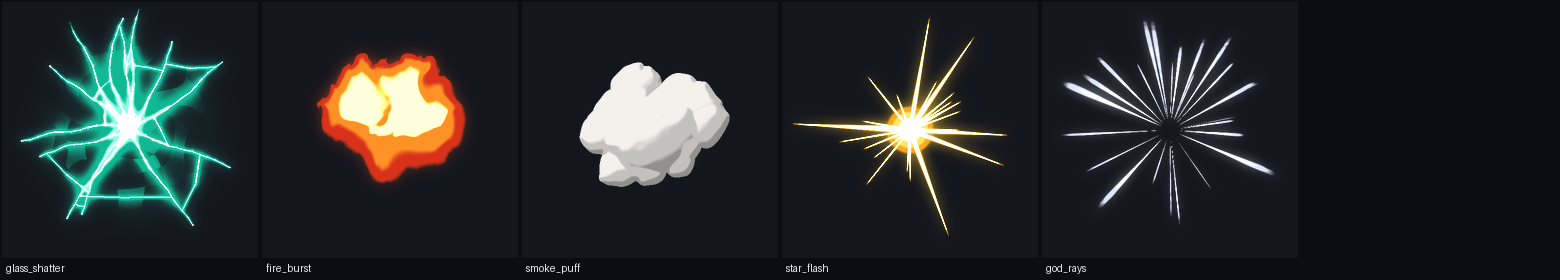
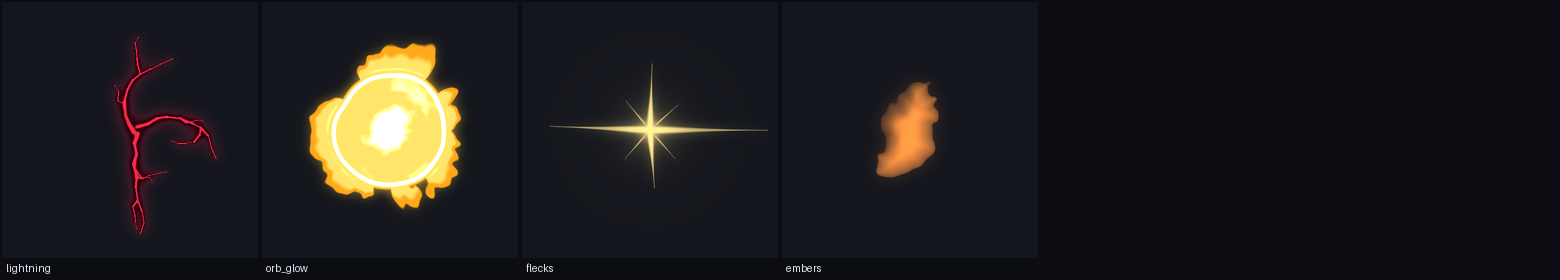
roblox-anime-vfx: repaint orb, flecks, embers; steady lightning strike; gallery generator
- lightning: bolts strike in, hold the same paths with flicker, then break up (was re-randomised every frame)
- orb_glow: churning layered energy ball with flame-like corona (loop)
- flecks: painted glint, smeared needle, glowing light chip, crystal shard
- embers: torn painted flakes with hot centres, charred edges, folds
- gallery.py builds the texture review page

Claude-Session: https://claude.ai/code/session_01AzdyD7KVspiBcyaRxVxQNw

diff --git a/.claude/skills/roblox-anime-vfx/scripts/vfx_textures.py b/.claude/skills/roblox-anime-vfx/scripts/vfx_textures.py
@@ -237,14 +237,34 @@ def god_rays(n=16, seed=61):
     return frames
 
 
-def orb_glow():
-    """Soft bloom orb: hot disc, wide falloff, four faint glints. Single white, alpha only."""
-    x, y = coords(S)
-    r, a = polar_of(x, y)
-    disc = 1 - ss(r, 0.12, 0.3)
-    halo = np.exp(-r * 4.2) * (1 - ss(r, 0.8, 1.0))
-    glint = np.exp(-np.abs(np.sin(2 * a)) * r * 30) * np.exp(-r * 3.5) * 0.35
-    return np.clip(disc + halo * 0.8 + glint, 0, 1)
+def orb_glow(n=16, seed=63):
+    """Churning anime energy ball (loop): white-hot core, swirling streaks inside the body, a bright
+    rim, and short flame-like tongues licking off the edge. Angle-periodic noise rolls one full period,
+    so FlipbookMode = Loop is seamless. Layered."""
+    H, W = 256, 1024
+    sw = tnoise(H, W, 40, 160, seed, 4)            # rows = radius (outer -> centre), cols = angle
+    tg = tnoise(H, W, 140, 70, seed + 1, 3)
+    wob = tnoise(1, W, 1, 180, seed + 2, 2)[0]
+    v = np.linspace(0, 1, H)[:, None]              # 0 = outer limit (r=0.98), 1 = centre
+    frames = []
+    for i in range(n):
+        o = int(W * i / n)
+        a = np.roll(sw, -o, axis=1)
+        b = np.roll(tg, o * 2 % W, axis=1)
+        w = np.roll(wob, -o)[None, :]
+        r = 0.98 * (1 - v)                          # actual radius of each row
+        edge = 0.46 + 0.035 * (w - 0.5) * 2         # wobbly silhouette
+        inside = ss(r, edge + 0.012, edge - 0.012)
+        body = inside * (0.5 + 0.32 * a + 0.25 * ss(r, edge * 0.55, 0.0))
+        rim = ss(np.abs(r - (edge - 0.03)), 0.035, 0.006) * 0.95
+        tl = 0.05 + 0.32 * levels(b, 0.35, 0.95)
+        out = np.clip((r - edge) / tl, 0, 1)
+        tongues = ss(r, edge - 0.02, edge + 0.01) * ss(out, 1.0, 0.75) * (1 - out) ** 0.8 * 0.8 * (tl > 0.07)
+        core = ss(r, 0.2, 0.04) * np.ones_like(a)
+        I = np.clip(np.maximum.reduce([body, rim, tongues, core]), 0, 1)
+        I = mblur(I, 2, axis=0)
+        frames.append(pc.polar_strip(I, S, 0.98, 0.0, 0.0, TAU))
+    return frames
 
 
 # ================================================================ FLECKS / EMBERS
@@ -254,47 +274,101 @@ def _poly_mask(pts, size):
     return np.asarray(big, np.float32) / 255
 
 
+def _painted(mask, soft=1.2):
+    return np.clip(blur(mask, soft), 0, 1)
+
+
 def flecks():
-    """2x2 sheet of small light flecks: rounded square, diamond, needle, angular chip. Each has a hot
-    core and a baked soft halo. Single white. FlipbookLayout Grid2x2 + FlipbookStartRandom to mix."""
+    """2x2 sheet of painted sparks, each with a hot centre and a soft painted halo: (1) uneven 4-point
+    glint, (2) needle spark with a smear trail, (3) faceted light chip (lit / shadow face, rim
+    highlight), (4) crystal shard with a tip glint. Shaded (grey value = painted tone).
+    FlipbookLayout Grid2x2 + FlipbookStartRandom to mix them in one emitter."""
+    rng = np.random.default_rng(73)
     x, y = coords(S)
-    r, _ = polar_of(x, y)
-    cells = []
-    sq = np.maximum(np.abs(x), np.abs(y))
-    rsq = np.hypot(np.clip(np.abs(x) - 0.2, 0, None), np.clip(np.abs(y) - 0.2, 0, None))
-    cells.append(1 - ss(rsq, 0.06, 0.1))
-    dia = np.abs(x) + np.abs(y)
-    cells.append(1 - ss(dia, 0.36, 0.42))
-    cells.append(1 - ss(np.abs(x) / 0.12 + (y / 0.85) ** 2, 0.85, 1.0))
-    cells.append(_poly_mask([(S * .32, S * .24), (S * .7, S * .3), (S * .76, S * .62), (S * .44, S * .78), (S * .26, S * .55)], S))
-    out = []
-    for c in cells:
-        halo = blur(c, S * 0.035) * 0.55
-        out.append(np.clip(np.maximum(c, halo), 0, 1))
-    return out
+    r, a = polar_of(x, y)
+    alphas, vals = [], []
+    # 1 glint: uneven arms, slightly off-axis, concave taper, small diagonal arms
+    F = np.zeros_like(x)
+    for k, L in enumerate([0.92, 0.52, 0.78, 0.46]):
+        ang = k * math.pi / 2 + rng.uniform(-0.08, 0.08)
+        da = np.abs(np.angle(np.exp(1j * (a - ang))))
+        wd = 0.07 * (1 - np.clip(r / L, 0, 1)) ** 2.2
+        F = np.maximum(F, ss(da * r, wd + 0.004, wd * 0.2) * (r < L))
+    for k in range(4):
+        ang = math.pi / 4 + k * math.pi / 2 + rng.uniform(-0.1, 0.1)
+        da = np.abs(np.angle(np.exp(1j * (a - ang))))
+        wd = 0.03 * (1 - np.clip(r / 0.3, 0, 1)) ** 2
+        F = np.maximum(F, 0.8 * ss(da * r, wd + 0.003, wd * 0.2) * (r < 0.3))
+    core = ss(r, 0.12, 0.02)
+    halo = blur(F, S * 0.02) * 0.6 + np.exp(-r * 7) * 0.5
+    alphas.append(np.clip(np.maximum.reduce([F, core, halo]), 0, 1))
+    vals.append(np.clip(0.62 + 0.38 * np.maximum(core, F * ss(r, 0.5, 0.0)), 0, 1))
+    # 2 needle spark: bright teardrop head at the top, smeared tail downward
+    head = ss(np.hypot(x / 0.11, (y - 0.4) / 0.24), 1.0, 0.6)
+    tail = ss(np.abs(x) / (0.09 * np.clip((y + 0.85) / 1.25, 0, 1) + 1e-3), 1.0, 0.35) * ss(y, -0.85, 0.3) * (y < 0.45)
+    tail = mblur(tail, S * 0.02, axis=0) * np.clip((y + 0.85) / 1.3, 0, 1)
+    F = np.maximum(head, tail * 0.85)
+    halo = blur(F, S * 0.03) * 0.55
+    alphas.append(np.clip(np.maximum(F, halo), 0, 1))
+    vals.append(np.clip(0.6 + 0.4 * np.maximum(head, tail * ss(y, -0.3, 0.4)), 0, 1))
+    # 3 light chip: soft-cornered, slightly irregular square, glowing hot from the centre out
+    nz = noise(S, S, 50, 50, 77, 3)
+    th = 0.3
+    xr, yr = x * math.cos(th) - y * math.sin(th), x * math.sin(th) + y * math.cos(th)
+    sq = np.maximum(np.abs(xr) * 1.05, np.abs(yr)) + (nz - 0.5) * 0.05
+    m = ss(sq, 0.34, 0.3)
+    inner = ss(sq, 0.3, 0.02)
+    lit = 0.12 * ss(xr - yr, -0.3, 0.3)                       # one side catches more light
+    halo = blur(m, S * 0.05) * 0.5
+    alphas.append(np.clip(np.maximum(m, halo), 0, 1))
+    vals.append(np.clip(np.where(m > 0.3, 0.6 + 0.3 * inner + lit + 0.15 * ss(sq, 0.12, 0.0), 0.62), 0, 1))
+    # 4 crystal shard: tapered sliver, bright at the tip fading down its length, soft painted edges, tip glint
+    th = 0.25
+    xr, yr = x * math.cos(th) - y * math.sin(th), x * math.sin(th) + y * math.cos(th)
+    w = 0.12 * np.clip((0.8 - yr) / 1.4, 0, 1) ** 0.6 * np.clip((yr + 0.8) / 0.25, 0, 1)
+    m = ss(np.abs(xr) - w, 0.012, -0.012) * (np.abs(yr) < 0.8)
+    m = blur(m, 1.6)
+    along = np.clip((yr + 0.8) / 1.6, 0, 1)
+    tx, ty = -math.sin(-th) * 0.62, math.cos(-th) * 0.62
+    rr, aa = polar_of(x - tx, y - ty)
+    gl = np.zeros_like(x)
+    for ang in (0, math.pi / 2):
+        da = np.abs(np.angle(np.exp(1j * (aa - ang))))
+        da = np.minimum(da, math.pi - da)
+        gl = np.maximum(gl, ss(da * rr, 0.025 * (1 - np.clip(rr / 0.26, 0, 1)) ** 2 + 0.003, 0.0) * (rr < 0.26))
+    gl = np.maximum(gl, ss(rr, 0.06, 0.0))
+    halo = blur(np.maximum(m, gl), S * 0.03) * 0.5
+    alphas.append(np.clip(np.maximum.reduce([m * (0.55 + 0.45 * along), gl, halo]), 0, 1))
+    vals.append(np.clip(0.6 + 0.4 * np.maximum(along ** 1.5 * (m > 0.3), gl), 0, 1))
+    return alphas, vals
 
 
 def embers(n=16, seed=71):
-    """16 angular ember / petal chips (Random start). Hot inner value, slightly darker edge. Shaded."""
+    """16 painted ember flakes (use FlipbookStartRandom): torn, irregular outlines from warped
+    ellipses with a pointed tail, a glowing hot centre, a charred darker edge on one side and, on some,
+    a fold line splitting two facets. Faint baked halo. Shaded."""
     rng = np.random.default_rng(seed)
-    alphas, vals = [], []
     x, y = coords(S)
+    alphas, vals = [], []
     for i in range(n):
-        k = rng.integers(4, 7)
-        elong = rng.uniform(1.4, 2.6)
         rot = rng.uniform(0, TAU)
-        pts = []
-        for j in range(k):
-            ang = j / k * TAU + rng.uniform(-0.35, 0.35)
-            rad = rng.uniform(0.35, 0.8) * (1.0 if j % 2 == 0 else 0.6)
-            px, py = math.cos(ang) * rad * elong * 0.5, math.sin(ang) * rad * 0.5
-            qx = px * math.cos(rot) - py * math.sin(rot)
-            qy = px * math.sin(rot) + py * math.cos(rot)
-            pts.append(((qx * 0.8 + 1) / 2 * S, (1 - (qy * 0.8 + 1) / 2) * S))
-        m = blur(_poly_mask(pts, S), 1.2)
-        inner = blur(m, S * 0.05)
-        alphas.append(m)
-        vals.append(np.clip(0.7 + 0.45 * levels(inner, 0.3, 0.9), 0, 1))
+        el = rng.uniform(1.6, 3.0)
+        xr, yr = x * math.cos(rot) - y * math.sin(rot), x * math.sin(rot) + y * math.cos(rot)
+        nz = noise(S, S, rng.uniform(40, 80), rng.uniform(40, 80), seed * 10 + i, 3)
+        tailw = 1 + 0.9 * ss(xr, 0.0, 0.5)                  # one end drawn out into a point
+        d = np.hypot(xr / (0.5 * el / 2.2), yr * tailw / 0.24)
+        field = 1 - d + (nz - 0.5) * 0.75
+        m = ss(field, 0.0, 0.05)
+        dist = ndi.distance_transform_edt(field > 0)
+        depth = dist / (dist.max() + 1e-6)
+        val = 0.42 + 0.58 * levels(depth, 0.05, 0.75, 0.75)
+        char = ss(yr + (nz - 0.5) * 0.15, -0.05, -0.18)          # charred band on one side
+        val = val * (1 - 0.4 * char)
+        if rng.random() < 0.5:                                  # fold: two facets
+            val = val * np.where(xr * 0.6 + yr > 0, 1.0, 0.82)
+        halo = blur(m, S * 0.03) * 0.3
+        alphas.append(np.clip(np.maximum(m, halo), 0, 1))
+        vals.append(np.clip(np.where(m > 0.5, val, 0.6), 0, 1))
     return alphas, vals
 
 
@@ -468,23 +542,39 @@ def glass_shatter(seed=121):
 
 
 def lightning(n=16, seed=131):
-    """Crackling forked bolts around a centre; each frame re-strikes, last frames fade. Layered."""
+    """Anime lightning strike: three forked bolts draw in from the centre over 2 frames, hold the SAME
+    paths while flickering (tiny vertex jitter, brightness pulses, branches popping on and off), then
+    break apart from the tips and fade. Layered."""
     rng = np.random.default_rng(seed)
+    bolts = []
+    for k in range(3):
+        ang = k / 3 * TAU + rng.uniform(-0.5, 0.5)
+        pts, a2 = _walk(rng, (S / 2 + rng.normal(0, S * 0.02), S / 2 + rng.normal(0, S * 0.02)), ang, S * 0.045, 9, 0.5)
+        brs = []
+        for j in (2, 4, 6):
+            bp, _ = _walk(rng, pts[j], a2 + rng.uniform(-1.3, 1.3), S * 0.03, int(rng.integers(3, 6)), 0.9)
+            brs.append((j, bp))
+        bolts.append((pts, brs))
+    flick = [1.0, 1.0, 0.75, 1.0, 0.6, 0.95, 0.8, 1.0, 0.7, 0.9, 0.8, 0.65, 0.5, 0.38, 0.25, 0.12]
     frames = []
     for i in range(n):
+        fr = np.random.default_rng(seed * 100 + i)
+        reveal = min(1.0, (i + 1) / 2.0)
+        breakup = max(0.0, (i - 9) / 6)
         polys, widths = [], []
-        for _ in range(3):
-            ang = rng.uniform(0, TAU)
-            pts, a2 = _walk(rng, (S / 2 + rng.normal(0, S * 0.04), S / 2 + rng.normal(0, S * 0.04)), ang, S * 0.045, 9, 0.85)
-            polys.append(pts)
-            widths.append(S * 0.012)
-            j = int(rng.integers(2, 6))
-            bp, _ = _walk(rng, pts[j], a2 + rng.uniform(-1.2, 1.2), S * 0.03, 4, 0.9)
-            polys.append(bp)
-            widths.append(S * 0.007)
+        for pts, brs in bolts:
+            npts = len(pts)
+            keep = max(2, int(round(npts * reveal * (1 - 0.75 * breakup))))
+            jit = [(px + fr.normal(0, S * 0.004), py + fr.normal(0, S * 0.004)) if 0 < q < npts - 1 else (px, py) for q, (px, py) in enumerate(pts)]
+            polys.append(jit[:keep])
+            widths.append(S * 0.012 * (1 - 0.5 * breakup))
+            for j, bp in brs:
+                if j < keep - 1 and fr.random() < (0.85 if i < 3 else 0.55):
+                    bkeep = max(2, int(round(len(bp) * (1 - breakup))))
+                    polys.append([jit[j]] + [(px + fr.normal(0, S * 0.004), py + fr.normal(0, S * 0.004)) for px, py in bp[1:bkeep]])
+                    widths.append(S * 0.007 * (1 - 0.5 * breakup))
         line = _lines_to_field(polys, S, widths)
-        fade = 1 - max(0.0, (i - 9) / 7)
-        frames.append(_glow_lines(line, S) * fade)
+        frames.append(_glow_lines(line, S) * flick[i])
     return frames
 
 
@@ -532,8 +622,8 @@ LIB = {
     "dust_burst":    (dust_burst,    "shaded",  4, 0, "dust"),
     "star_flash":    (star_flash,    "layered", 4, 6, "light"),
     "god_rays":      (god_rays,      "layered", 4, 5, "white"),
-    "orb_glow":      (orb_glow,      "white",   1, 0, "light"),
-    "flecks":        (flecks,        "white",   2, 0, "light"),
+    "orb_glow":      (orb_glow,      "layered", 4, 6, "light"),
+    "flecks":        (flecks,        "shaded",  2, 0, "spark"),
     "embers":        (embers,        "shaded",  4, 0, "ember"),
     "shock_ring":    (shock_ring,    "layered", 1, 5, "quake"),
     "wind_arcs":     (wind_arcs,     "white",   2, 0, "ice"),
@@ -555,7 +645,8 @@ PALETTES = {
     "white": {"glow": "#ffffff", "rim": "#dfe8ff", "mid": "#ffffff", "core": "#ffffff"},
     "smoke": {"mid": "#f4f1ec"},
     "dust":  {"mid": "#e8d6b0"},
-    "ember": {"mid": "#ff7a22", "additive": True},
+    "ember": {"mid": "#ff8a2a", "additive": True},
+    "spark": {"mid": "#ffe27a", "additive": True},
 }
 
 

diff --git a/.claude/skills/roblox-anime-vfx/scripts/gallery.py b/.claude/skills/roblox-anime-vfx/scripts/gallery.py
@@ -1,0 +1,90 @@
+"""Build a texture-review gallery page (HTML) from the library, for approval rounds.
+
+    /tmp/bpyenv/bin/python gallery.py OUT_DIR
+
+Writes OUT_DIR/index.html and OUT_DIR/files.json (published path -> source file), ready to publish as an
+artifact with `files`. Run vfx_textures.py and texture_preview.py first.
+"""
+import os, sys, json, html, inspect
+sys.path.insert(0, os.path.dirname(os.path.abspath(__file__)))
+import vfx_textures as v
+
+GROUPS = [("Fire", ["fire_burst", "flame_lick", "aura_wisp", "embers"]), ("Smoke & dust", ["smoke_puff", "dust_burst"]),
+          ("Flash & light", ["star_flash", "god_rays", "orb_glow", "flecks"]),
+          ("Energy", ["slash", "shock_ring", "wind_arcs", "beam_strip", "speedlines"]),
+          ("Quake & lightning", ["crack_glow", "glass_shatter", "lightning"])]
+KIND = {"layered": "4 stacked layers", "shaded": "1 shaded texture", "white": "1 white texture"}
+GRID = {0: "strip / full-screen", 1: "single image", 2: "2×2 sheet", 4: "4×4 flipbook, 16 frames"}
+CSS = """
+/* Layout: a dark VFX-lab light table; cards in a responsive grid so effects glow like they do in game */
+:root { --bg:#0f1117; --panel:#171a23; --line:#262b38; --fg:#e8eaf2; --muted:#9aa1b5; --accent:#ff9a2e;
+  --display:"Chakra Petch", "Segoe UI", system-ui, sans-serif; --body:"Inter", system-ui, sans-serif;
+  --mono:"JetBrains Mono", ui-monospace, monospace; color-scheme:dark; }
+body { background:var(--bg); color:var(--fg); font-family:var(--body); line-height:1.5; }
+.wrap { max-width:1180px; margin:0 auto; padding-block:28px 64px; padding-left:max(16px, env(safe-area-inset-left, 0px)); padding-right:max(16px, env(safe-area-inset-right, 0px)); }
+h1 { font-family:var(--display); font-size:2rem; margin:0 0 6px; letter-spacing:.02em; text-wrap:balance; }
+.lede { color:var(--muted); max-width:68ch; margin:0 0 14px; }
+nav { display:flex; flex-wrap:wrap; gap:6px; margin-bottom:28px; }
+nav a { font-family:var(--mono); font-size:.78rem; color:var(--fg); text-decoration:none; border:1px solid var(--line); border-radius:4px; padding:3px 8px; }
+nav a:hover, nav a:focus-visible { border-color:var(--accent); color:var(--accent); outline:none; }
+h2 { font-family:var(--display); font-size:1.15rem; text-transform:uppercase; letter-spacing:.12em; color:var(--accent); margin:36px 0 14px; }
+.cards { display:grid; grid-template-columns:repeat(auto-fill, minmax(min(100%, 360px), 1fr)); gap:16px; }
+.tex { background:var(--panel); border:1px solid var(--line); border-radius:8px; padding:16px; display:flex; flex-direction:column; gap:10px; min-width:0; }
+.tex header { display:flex; flex-wrap:wrap; align-items:baseline; justify-content:space-between; gap:4px 12px; }
+h3 { font-family:var(--mono); font-size:1.05rem; margin:0; color:var(--fg); }
+.meta { margin:0; font-size:.78rem; color:var(--muted); letter-spacing:.03em; }
+.new { font-family:var(--mono); font-size:.7rem; color:var(--bg); background:var(--accent); border-radius:3px; padding:1px 6px; margin-left:8px; vertical-align:middle; }
+.doc { margin:0; font-size:.88rem; color:var(--muted); }
+.views { display:flex; flex-wrap:wrap; gap:10px; }
+figure { margin:0; display:flex; flex-direction:column; gap:4px; min-width:0; }
+figure img { display:block; width:100%; height:auto; border-radius:5px; background:#14161d; }
+.anim { flex:1 1 150px; } .sheet { flex:2 1 180px; }
+figcaption { font-size:.72rem; color:var(--muted); font-family:var(--mono); overflow-wrap:anywhere; }
+details summary { cursor:pointer; font-size:.8rem; color:var(--muted); }
+details summary:focus-visible { outline:2px solid var(--accent); outline-offset:2px; }
+.raws { display:grid; grid-template-columns:repeat(auto-fill, minmax(110px, 1fr)); gap:8px; margin-top:8px; }
+.raw img { background:repeating-conic-gradient(#1d212c 0 25%, #12141b 0 50%) 0 0/16px 16px; }
+"""
+
+
+def build(out, lede, updated=()):
+    A = os.path.abspath(os.path.join(v.HERE, "..", "assets"))
+    files, secs = {}, []
+    for gname, names in GROUPS:
+        cards = []
+        for nm in names:
+            fn, kind, grid, _, _ = v.LIB[nm]
+            doc = " ".join(inspect.getdoc(fn).split("\n\n")[0].split())
+            prev = f"previews/{nm}.png"; files[prev] = os.path.join(A, prev)
+            anim = ""
+            if grid == 4:
+                g = f"previews/{nm}.gif"; files[g] = os.path.join(A, g)
+                anim = f'<figure class="anim"><img src="{g}" alt="{nm} flipbook playing" loading="lazy"><figcaption>Playing</figcaption></figure>'
+            raws = [f"{nm}_{L}.png" for L in ("glow", "rim", "mid", "core")] if kind == "layered" else [f"{nm}.png"]
+            rawhtml = ""
+            for r in raws:
+                files["textures/" + r] = os.path.join(A, "textures", r)
+                rawhtml += f'<figure class="raw"><img src="textures/{r}" alt="{r}" loading="lazy"><figcaption>{r}</figcaption></figure>'
+            badge = '<span class="new">updated</span>' if nm in updated else ""
+            cards.append(f'<article class="tex" id="{nm}"><header><h3>{nm}{badge}</h3><p class="meta">{GRID[grid]} · {KIND[kind]}</p></header>'
+                         f'<p class="doc">{html.escape(doc)}</p><div class="views">{anim}<figure class="sheet"><img src="{prev}" alt="{nm} tinted preview" loading="lazy">'
+                         f'<figcaption>Tinted preview{" (all frames)" if grid > 1 else ""}</figcaption></figure></div>'
+                         f'<details><summary>Raw files ({len(raws)})</summary><div class="raws">{rawhtml}</div></details></article>')
+        secs.append(f'<section><h2>{gname}</h2><div class="cards">{"".join(cards)}</div></section>')
+    nav = " ".join(f'<a href="#{n}">{n}</a>' for _, ns in GROUPS for n in ns)
+    page = ('<title>Anime VFX Textures</title>\n<meta name="claude:viewport-fit-sides" content="cover">\n'
+            '<link rel="stylesheet" href="https://fonts.googleapis.com/css2?family=Chakra+Petch:wght@600;700&family=Inter:wght@400;500&family=JetBrains+Mono:wght@400&display=swap">\n'
+            f'<style>{CSS}</style>\n<div class="wrap">\n<h1>Anime VFX Textures</h1>\n<p class="lede">{lede}</p>\n'
+            f'<nav aria-label="Textures">{nav}</nav>\n{"".join(secs)}\n</div>')
+    os.makedirs(out, exist_ok=True)
+    open(os.path.join(out, "index.html"), "w").write(page)
+    json.dump(files, open(os.path.join(out, "files.json"), "w"), indent=0)
+    return files
+
+
+if __name__ == "__main__":
+    out = sys.argv[1]
+    upd = sys.argv[2].split(",") if len(sys.argv) > 2 else ()
+    lede = ("Painted texture library, for approval. Each card shows the texture tinted and stacked the way Roblox will layer it. "
+            "Flipbooks also play over a daylight backdrop. Open \"Raw files\" to see the white PNGs that get uploaded.")
+    build(out, lede, upd)
